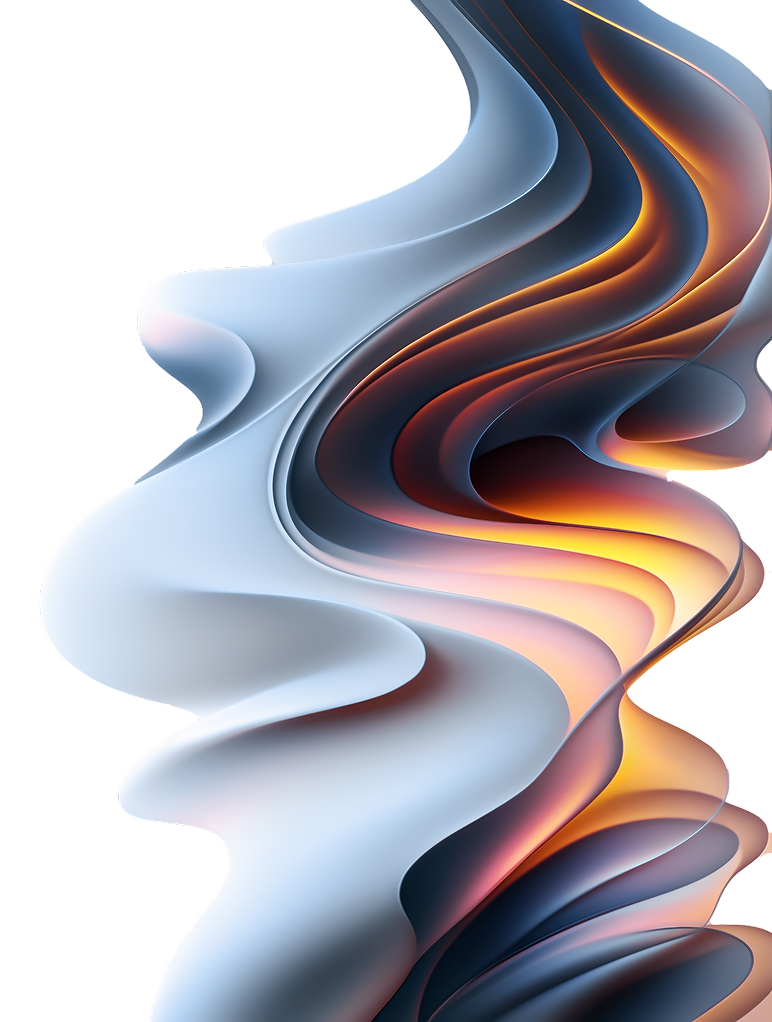
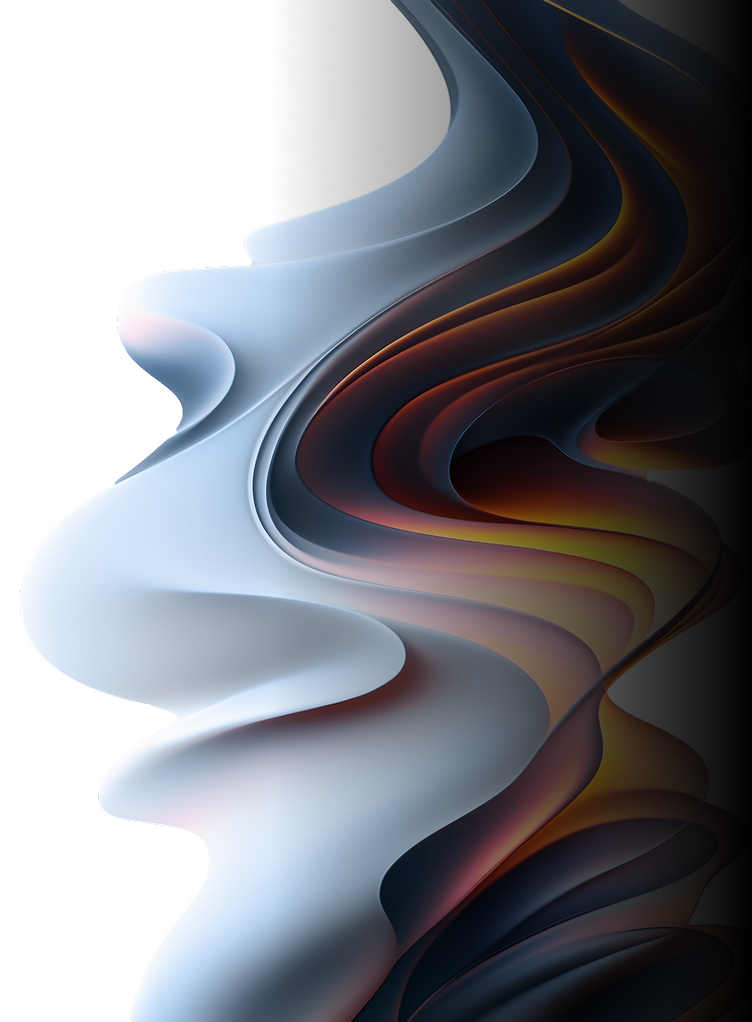
fix: subservice's heroes

diff --git a/src/sections/ui-ux-design/services/user-experience-design/hero/hero.module.scss b/src/sections/ui-ux-design/services/user-experience-design/hero/hero.module.scss
@@ -77,16 +77,15 @@
 
 .main_image {
   position: absolute !important;
-  right: 50%;
-  transform: translateX(50%);
+  right: -5%;
   bottom: 0;
   width: 110%;
-  height: auto;
-  object-fit: contain;
+  height: 100%;
+  object-fit: cover;
   z-index: 0;
 
   @media (max-width: 768px) and (max-height: 800px) {
-    display: none;
+    display: block;
   }
 
   @include media(tablet) {
@@ -94,9 +93,10 @@
     max-height: none;
     transform: translateX(0);
     height: 100%;
-    object-fit: contain;
+    object-fit: cover;
+    object-position: right;
 
-    width: 110%;
+    width: 130%;
     right: -25%;
   }
 

diff --git a/src/sections/hero/hero.tsx b/src/sections/hero/hero.tsx
@@ -84,15 +84,15 @@ export const Hero = ({
             <Image
               aria-hidden
               alt=""
+              quality={100}
               src={heroImg}
+              placeholder="blur"
               style={{
                 transform: isDynamicImage
                   ? `translate(${offset.x}px, ${offset.y}px)`
                   : `translate(0, 0)`,
                 transition: "transform 0.1s ease-out",
               }}
-              // width={heroImg}
-              // height={heroImg}
             />
           </div>
         )}

diff --git a/src/pages/software-development/api-integration-services/api-integration-services.module.scss b/src/pages/software-development/api-integration-services/api-integration-services.module.scss
@@ -5,6 +5,10 @@
   width: 100%;
 
   @include media("tablet") {
+    max-width: 640px;
+  }
+
+  @include media("laptop") {
     max-width: 1000px;
   }
 }
